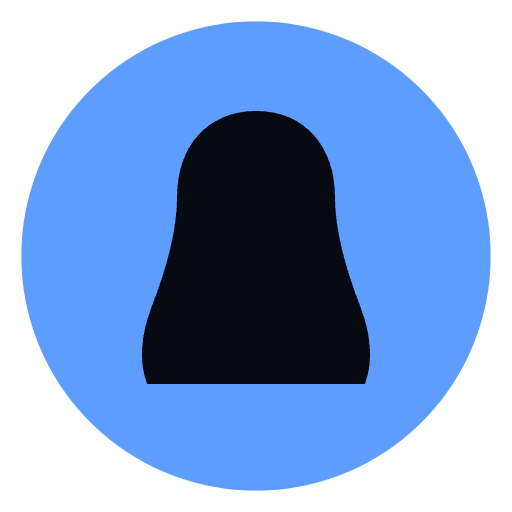
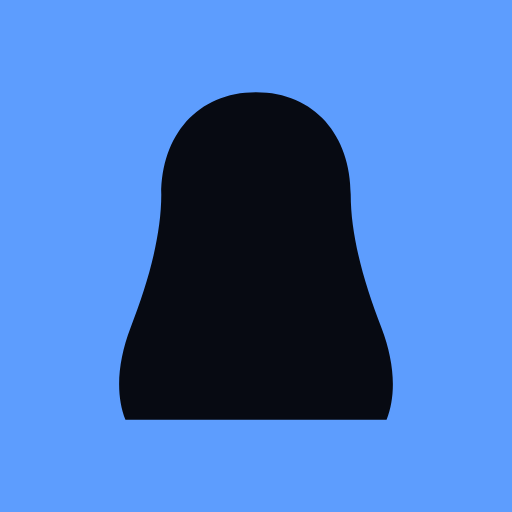
網站圖示改成方形 Ado 藍底、娃娃剪影放大 (v1.12.1)

diff --git a/index.html b/index.html
@@ -207,7 +207,7 @@
   </main>
 
   <footer class="col">
-    <p class="credits-copy"><span class="m">Ado 應援預習</span><span class="sep">・</span><span class="m">ADO FAN CHANT GUIDE（非官方粉絲製作）<span class="build">v1.12.0</span></span></p>
+    <p class="credits-copy"><span class="m">Ado 應援預習</span><span class="sep">・</span><span class="m">ADO FAN CHANT GUIDE（非官方粉絲製作）<span class="build">v1.12.1</span></span></p>
     <nav class="credits-links" aria-label="專案連結">
       <a class="gh" href="https://github.com/Gcree/ado-guide" target="_blank" rel="noopener" aria-label="GitHub Repo" title="GitHub Repo"><svg viewBox="0 0 16 16" aria-hidden="true"><path d="M8 0C3.58 0 0 3.58 0 8c0 3.54 2.29 6.53 5.47 7.59.4.07.55-.17.55-.38 0-.19-.01-.82-.01-1.49-2.01.37-2.53-.49-2.69-.94-.09-.23-.48-.94-.82-1.13-.28-.15-.68-.52-.01-.53.63-.01 1.08.58 1.23.82.72 1.21 1.87.87 2.33.66.07-.52.28-.87.51-1.07-1.78-.2-3.64-.89-3.64-3.95 0-.87.31-1.59.82-2.15-.08-.2-.36-1.02.08-2.12 0 0 .67-.21 2.2.82.64-.18 1.32-.27 2-.27.68 0 1.36.09 2 .27 1.53-1.04 2.2-.82 2.2-.82.44 1.1.16 1.92.08 2.12.51.56.82 1.27.82 2.15 0 3.07-1.87 3.75-3.65 3.95.29.25.54.73.54 1.48 0 1.07-.01 1.93-.01 2.2 0 .21.15.46.55.38A8.013 8.013 0 0 0 16 8c0-4.42-3.58-8-8-8z"/></svg></a>
       <a href="https://vaundy.tiaui.co/" target="_blank" rel="noopener">Inspired by Vaundy 台北場應援指南</a>

diff --git a/CHANGELOG.md b/CHANGELOG.md
@@ -2,7 +2,11 @@
 
 依 Git 歷史整理，每個版本對應一次提交。網站頁尾的「更新日誌」直接讀這個檔案，新版本寫在最上面。
 
-## v1.12.0 — 2026-10-26
+## v1.12.1 — 2026-10-26
+
+- 網站圖示改成方形 Ado 藍底，中間一樣是娃娃剪影並放大一些；分頁小圖示帶一點圓角，手機主畫面圖示改成滿版方形（系統會自己裁圓角）。
+
+## [v1.12.0](https://github.com/Gcree/ado-guide/commit/812f10170be1c1a3da261783c87e91d374b15395) — 2026-10-26
 
 - 打開歌曲就自動播放 MV；瀏覽器不讓影片自動出聲時（例如 iPhone、直接打開網址），改成靜音播放並提醒點喇叭開聲音。
 - 手機版拿掉影片下方的「現在要做的事」提示框和「歌詞與應援」標題，歌詞區變大（320×640 的小手機從 259px 變成 372px 高）；現在的動作看歌詞顏色和大字提醒，大字提醒開關移到練習工具裡。
